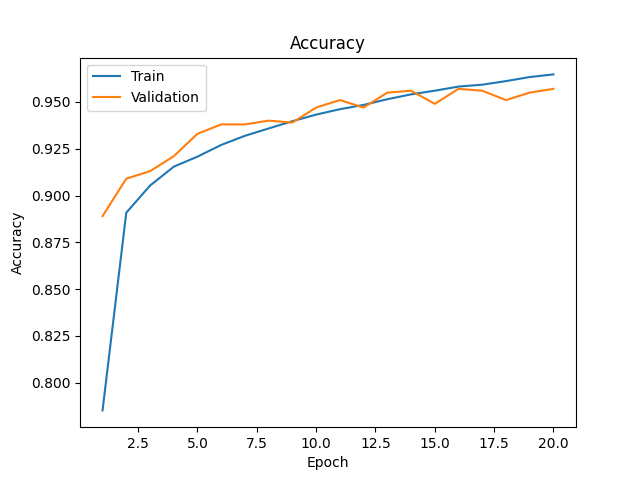
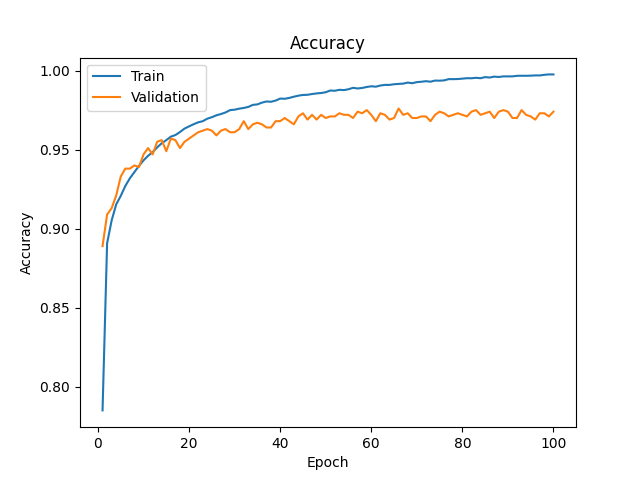
Fixed readme file visualy

diff --git a/experiments.py b/experiments.py
@@ -21,6 +21,6 @@ X_train = (data_train[:, 1:] / 255.).T
 Y_train = data_train[:, 0].astype(int)
 
 hidden_layers = [128, 64]
-model, loss, acc, val_acc = train_nn(X_train, Y_train, hidden_layers, epochs=20, lr=0.01, batch_size=64, X_dev=X_dev, Y_dev=Y_dev)
+model, loss, acc, val_acc = train_nn(X_train, Y_train, hidden_layers, epochs=100, lr=0.01, batch_size=64, X_dev=X_dev, Y_dev=Y_dev)
 
 plot_curves(loss, acc, val_acc)

diff --git a/README.md b/README.md
@@ -73,22 +73,21 @@ python experiments.py
 
 
 ## 📂 Project Structure
+----------
+- Image-Recognition/
+- ├── src/
+- │   ├── model.py          # NeuralNetwork class & backprop engine
+- │   ├── utils.py          # Batching, one-hot encoding, accuracy
+- │   ├── initializers.py   # He uniform initialization
+- │   ├── activations.py    # ReLU, Softmax & derivatives
+- │   └── losses.py         # Cross-entropy loss
+- ├── results/              # Generated training plots
+- ├── train.py              # Training loop
+- ├── experiments.py        # Experiment runner
+- ├── requirements.txt
+- └── README.md
 
-```text
-Image-Recognition/
-├── src/
-│   ├── model.py          # NeuralNetwork class & backprop engine
-│   ├── utils.py          # Batching, one-hot encoding, accuracy
-│   ├── initializers.py   # He uniform initialization
-│   ├── activations.py    # ReLU, Softmax & derivatives
-│   └── losses.py         # Cross-entropy loss
-├── results/              # Generated training plots
-├── train.py              # Training loop
-├── experiments.py        # Experiment runner
-├── requirements.txt
-└── README.md
-
-🌍 Results
+## 🌍 Results
 ----------
 
 | Metric              | Performance |
@@ -103,7 +102,7 @@ Exact performance may vary depending on initialization and hyperparameters.
 
 * * *
 
-🧠 What I Learned
+## 🧠 What I Learned
 ----------------
 
 * How backpropagation works at a mathematical level
@@ -111,7 +110,7 @@ Exact performance may vary depending on initialization and hyperparameters.
 * The impact of weight initialization on training stability
 * How to structure ML projects cleanly without frameworks
 
-👤 Author
+## 👤 Author
 --------
 
 High school student learning artificial intelligence and machine learning.
